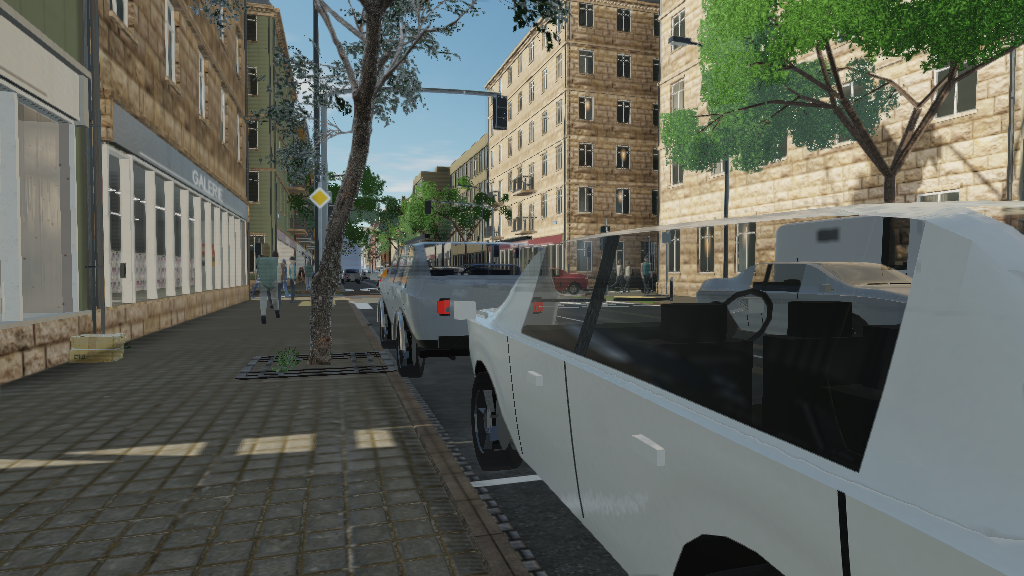
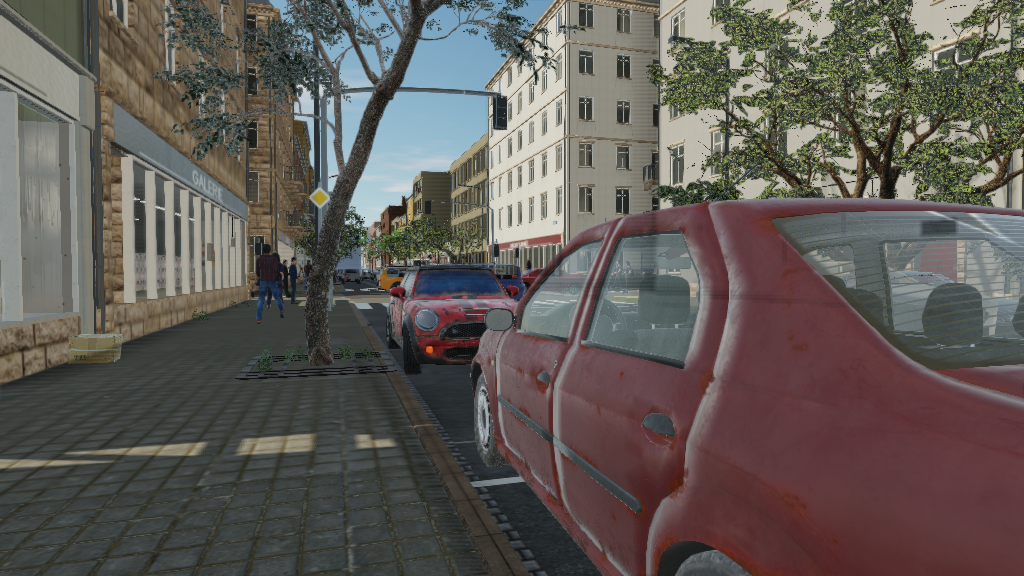
docs: the fourth pass -- before and after, report, performance, screenshots
docs/visual-overhaul-4/: the report, the eighteen viewpoints before and
after at 1024 x 576 with each pair side by side, eight flagship frames at
1920 x 1080, three night frames, and the performance runs. The README's
scene description, assets, tests, performance table, limitations and
layout follow the pass; plan.md records it and what comes next; the
committed screenshot set is re-shot from the same viewpoints.

diff --git a/README.md b/README.md
@@ -13,9 +13,12 @@ fascia is generated from one seed by code in this repository. The surfaces the
 camera gets closest to -- the asphalt, the paving, the bricks, the render, the
 bark -- are photogrammetry scans, and so are the hydrants, the cabinets, the
 benches, the cafe tables, the covered car and the trees nearest the showcase
-viewpoints: thirty-six models and fourteen texture sets, every one CC0 or
+viewpoints: sixty-nine models and fourteen texture sets, every one CC0 or
 CC-BY, every one with its licence and its digest recorded, every one fetched
-rather than committed and standing in for a generated fallback.
+rather than committed and standing in for a generated fallback. The cars in
+the bays the cameras look at are authored models under CC-BY, and the people
+on the footway are built from MakeHuman's CC0 base mesh and wardrobe in
+Blender and driven by this project's own skeleton and clips.
 
 It exists to exercise CNA's modern graphics layer (`CNAEXT`) on something that
 is not a test scene: a cascaded shadow pass, a depth/normal prepass, an
@@ -116,9 +119,31 @@ and the shrubs in them, the manhole covers, the cafe tables and A-boards out on
 the footway by the bakeries, the crates and cartons by the shop doors, the
 refuse sacks by the bins, and a car under a cover in one bay are
 photogrammetry scans from Poly Haven, imported through CNA's own glTF pipeline
-and instanced like everything else. The trees nearest the showcase viewpoints
-are a scanned small tree cut in Blender to a near and a far level of detail;
+and instanced like everything else. The trees within eighty metres of the
+junction are three scanned species -- a small tree, a broad island tree and a
+mature jacaranda -- each cut in Blender to a near and a far level of detail;
 the rest of the street's trees are the generated ones.
+
+**The hero cafe.** One shop -- the one the shop-window and pavement-cafe
+viewpoints look into -- is built as a composed room rather than a dressed
+box: a deeper plan with a darker store beyond a back door standing ajar, a
+serving counter under a glass case with the cakes and croissants inside it
+and the till on top, bread shelving and baskets behind, a coffee station
+against the end wall, pendant lamps over the counter, a clock and prints on
+the walls, a dressed window and two cafe tables inside, the awning out,
+opening hours on the door and a lamp on the pilaster. Thirty-eight scanned
+props, each anchored by the interior generator where a person would have put
+it.
+
+**The facades, closer.** Every sill, lintel, string course, cornice,
+pilaster, balcony nosing and door threshold is a chamfered box rather than a
+sharp one, because an arris that catches a highlight is most of what
+separates built stone from an extrusion. The flat post-war elevations carry a
+projecting surround round each window, the balconies stand on brackets, every
+shop door is set a third of a metre back into a reveal with a stone threshold
+and a pull handle, and the walls carry what walls carry: meter cabinets,
+vents, conduit runs with their saddles, scanned security cameras over the
+shop doors and scanned condenser units beside the upper windows.
 
 **Beyond the frontage.** The two streets continue past the modelled plots
 with their kerbs, footways and carriageways, lined by blocks that carry real
@@ -126,6 +151,16 @@ window recesses, shopfronts under fascias, plinths and cornices, with the same
 trees on the same pitch and the same cars parked along them, and cross streets
 between every third block. The scatter of blocks on the skyline beyond is
 painted: it is 240 m away.
+
+**The parked cars.** Eight authored car models -- an Opel Astra GTC, a Fiat
+Punto GT, a Renault Logan, a VAZ-2104 estate, a Honda Civic, a Mini Cooper S,
+a 1980s saloon and a Mercedes Sprinter -- all CC-BY from Sketchfab authors
+publishing their own work, normalised in Blender by
+`scripts/blender-vehicles.py` and dealt into the parking bays of the main
+street within seventy metres of the junction by `CityScene::buildHeroVehicles`,
+never the same model in two neighbouring bays. They are static, so the
+reflection probes hold them and the shop windows reflect them. The loft each
+one replaces stays in the simulation and is not drawn.
 
 **The moving parts.** Twelve vehicles over six classes — city car, hatchback,
 saloon, estate, crossover, van — lofted from monotone-cubic profile curves
@@ -136,10 +171,15 @@ clusters with chromed reflectors, number plates, a roof aerial and an interior
 with seats and a steering wheel. Bicycles lean on the stands. They follow the vehicle ahead, brake for a red light with
 their brake lamps lit, and turn through the junction on a Bézier.
 
-Fifty-odd people, each one mesh on a nineteen-bone skeleton, skinned by
-distance to the limbs running out of each bone, and animated on the GPU by
-`SkinnedPbrEffect` from walk and idle clips built in code, in coats with
-collars, some with a bag, some in a cap. The animation clock
+Fifty-odd people over eight variants, each one mesh per material on a
+nineteen-bone skeleton and animated on the GPU by `SkinnedPbrEffect` from walk
+and idle clips built in code. The eight are built from MakeHuman's CC0 base
+mesh and system wardrobe -- skins, clothes, shoes, hair, eyes -- by
+`scripts/blender-people.py` with MPFB in Blender, posed with the arms down,
+their authored weights folded from MakeHuman's 137 bones onto this project's
+nineteen, and written in this project's own character format for
+`CharacterLibrary` to read; the generated figures of the earlier passes stand
+in for any variant that has not been generated. The animation clock
 is the distance walked rather than wall-clock time, so nobody's feet slide and
 nobody's queue breathes in unison.
 
@@ -168,10 +208,11 @@ has, two of them on the stretch of footway where the scanned content is
 densest.
 
 `docs/visual-overhaul/` holds the first overhaul's before-and-after set,
-`docs/visual-overhaul-2/` the second pass's, and `docs/visual-overhaul-3/` the
-third's: scanned surfaces, scanned props, the hero trees and the recalibrated
-light, each viewpoint before beside after, the night set, flagship frames at
-1920 × 1080, and what it cost.
+`docs/visual-overhaul-2/` the second pass's, `docs/visual-overhaul-3/` the
+third's, and `docs/visual-overhaul-4/` the fourth's: authored cars, authored
+people, three tree species, architectural depth and the hero cafe, each
+viewpoint before beside after, the night set, flagship frames at 1920 × 1080,
+and what it cost.
 
 ## Building
 
@@ -603,19 +644,31 @@ on a machine with no GPU.
 
 ## Assets
 
-The street is generated. Thirty-six models and fourteen surfaces are not, and
-`assets/ATTRIBUTION.md` says exactly which and under what terms.
+The street is generated. Sixty-nine models, fourteen surfaces and eight
+people are not, and `assets/ATTRIBUTION.md` says exactly which and under what
+terms.
 
-Two sources. Sixteen glTF models from the Khronos sample set stand behind the
-shop glass. Twenty photogrammetry scans from [Poly Haven](https://polyhaven.com)
-stand in the street -- hydrants, cabinets, a bench, cafe furniture, planters
-and shrubs, crates, cartons, refuse sacks, manhole covers, a covered car and a
-small tree -- and fourteen Poly Haven texture sets replace the generated
-asphalt, paving, kerb, bricks, render, ashlar, concrete, roof tiles, bark and
-shop floor. Every Poly Haven item is CC0-1.0; the Khronos models are CC0-1.0
-or CC-BY-4.0, per model, as that repository's own `Models.md` states them.
+Four sources. Sixteen glTF models from the Khronos sample set stand behind the
+shop glass. Forty-four photogrammetry scans from
+[Poly Haven](https://polyhaven.com) stand in the street and in the hero cafe
+-- hydrants, cabinets, a bench, cafe furniture, planters and shrubs, crates,
+cartons, refuse sacks, manhole covers, a covered car, three trees, the cafe's
+shelving, counter fittings, lamps and food, and the cameras and condenser
+units on the walls -- and fourteen Poly Haven texture sets replace the
+generated asphalt, paving, kerb, bricks, render, ashlar, concrete, roof
+tiles, bark and shop floor. Eight cars come from [Sketchfab](https://sketchfab.com)
+authors, CC-BY-4.0 each, fetched from the
+[Objaverse](https://huggingface.co/datasets/allenai/objaverse) mirror with
+the licence and page Sketchfab embeds in the file, and normalised in Blender
+by `scripts/blender-vehicles.py`. The eight people are built from
+[MakeHuman](https://static.makehumancommunity.org)'s CC0 base mesh and system
+wardrobe by `scripts/blender-people.py`, which drives the MPFB extension in
+Blender -- a tool the manifest also declares, fetches and verifies, so the
+people can be rebuilt from nothing. Every Poly Haven and MakeHuman item is
+CC0-1.0; the Khronos models are CC0-1.0 or CC-BY-4.0 per model, and the CC-BY
+credits the licence asks for are in the attribution file.
 
-They are fetched rather than committed, because 300 MB of somebody else's work
+They are fetched rather than committed, because 700 MB of somebody else's work
 in a repository's history is a different decision from using it:
 
 ```sh
@@ -640,15 +693,23 @@ tables from it. None of it is used on the strength of the repository it came
 from -- the Khronos set carries models under other terms, and the manifest
 names the ones that were rejected and why. "It downloaded" is not a licence.
 
-The hero tree is the one asset with a build step of its own.
-`scripts/blender-tree-lod.py` runs inside Blender, takes Poly Haven's
-half-million-triangle LOD1, decimates the wood, keeps a fraction of the leaf
-clusters and scales the survivors up, and writes a near and a far `.glb` with
-the leaves alpha-masked (`scripts/glb-mask-leaves.py`, because Blender 4.2+
-exports every alpha as BLEND). The two files are declared as derived files of
-the tree in the manifest and compiled by the content build like any other
-model. Without Blender the derived files are not made and the generated trees
-stand at every pit.
+Three kinds of asset have a build step of their own, all in Blender and all
+recorded as derived files in the manifest so the licence gate knows them.
+`scripts/blender-tree-lod.py` takes a Poly Haven tree -- a `.blend` or, since
+this pass, a glTF -- decimates the wood, keeps a fraction of the leaf clusters
+and scales the survivors up, and writes a near and a far `.glb` with the
+leaves alpha-masked (`scripts/glb-mask-leaves.py`, because Blender 4.2+
+exports every alpha as BLEND) and no colour attribute (GLTF-209).
+`scripts/blender-vehicles.py` normalises a downloaded car: backdrop dropped,
+faced +Z at the real car's length, one mesh per material, a far level of
+detail, textures capped at 1k, glass blended and everything else opaque, and
+the triangles reversed for CNA's cull (CNA-F15). `scripts/blender-people.py`
+builds a person with MPFB, poses the arms down, bakes the targets, applies the
+masks and the armature, folds the rig's weights onto this project's nineteen
+bones and writes the mesh in this project's character format beside its
+textures, which the content build compiles with a mip chain like the
+catalogue's own. Without Blender none of the derived files are made, and the
+generated trees, the lofted cars and the generated figures stand in.
 
 ## Tests
 
@@ -656,7 +717,7 @@ stand at every pit.
 ctest --test-dir build --output-on-failure
 ```
 
-Eleven suites over the parts of the street that can be checked without a device:
+Twelve suites over the parts of the street that can be checked without a device:
 the signal controller, the traffic model, the walk graph, mesh building, the
 layout, the settings parser, the camera frustum, the mip-chain generation the
 content pipeline depends on, the shapes and surfaces the first visual overhaul
@@ -674,8 +735,17 @@ Three of them found live bugs on their first run: `realism_tests` asked where
 a car's brake lenses were and found the tail lamps wrapping 26 cm out behind
 the bumper.
 
-The eleventh is `validate_assets`: the licence gate, run by CTest, so a
-manifest that drifts from the fetched files fails the suite. `realism_tests`
+One is `validate_assets`: the licence gate, run by CTest, so a
+manifest that drifts from the fetched files fails the suite; it now knows the
+manifest's tools list and derived folders. The newest is
+`character_format_tests`, the contract between `scripts/blender-people.py`
+and `CharacterLibrary`: nineteen bones in an order a parent always precedes
+its child, joints where a standing figure's are with the arms down, every
+part inside its binary, every vertex a unit normal, a unit tangent, weights
+summing to one, bone indices under nineteen and UVs inside the texture. The
+first export failed the last check on every garment -- a stale layer
+reference in Blender had read another array as the UVs -- and drew perfectly
+plausible garbage. `realism_tests`
 gained a case for the manhole covers the road builder now hands to the scene,
 which have to lie on the crown of the main carriageway and out of the junction
 box. It pins the things the second pass's screenshots showed to be
@@ -734,18 +804,18 @@ them again. The overlay's headline is an *exponential* average and its
 breakdown is one frame's stage times: right for flying a camera around, wrong
 for tuning — it once read 214 ms on a frame that took 778.
 
-| | Before the second pass (`27f92a8`) | Before the third (`83dc8e1`) | Now |
-| --- | --- | --- | --- |
-| Scene build | 7 s from compiled content | 7 s, then 6–8 s baking 29 reflection probes | 12 s, then 7 s of probes |
-| Static batches | 1 187 | 1 586 | 1 634 |
-| Textures | 198 catalogue surfaces plus per-shop signage and the imported models' own | the same, plus a poster atlas and a weathering-decal atlas | the same, fourteen of them scans at 1024 px, plus twenty scanned models' own |
-| Plots, vehicles, people | 42, 74, 78 | 42, 74, 78 | 42, 74 + one covered car, 78 |
-| Draw calls per frame | 1 361, of which 160 are skinned | 1 535 | 1 564 |
-| Shadow draw calls | 2 840 | 3 115 | 3 303 |
-| Triangles drawn | 560 k | 603 k | 1 695 k, of which the hero trees are most |
-| Frame, 1024×576 | 34–45 ms median | 41–51 ms median | 47–59 ms median, interleaved with 52–64 for `83dc8e1` on a busy machine |
-| Frame, 1920×1080 | 46 ms | 47 ms | 64 ms against 60 |
-| Frame, `--night` | 34 ms | 47 ms | unchanged by this pass |
+| | Before the second pass (`27f92a8`) | Before the third (`83dc8e1`) | Before the fourth (`c31ae23`) | Now |
+| --- | --- | --- | --- | --- |
+| Scene build | 7 s from compiled content | 7 s, then 6–8 s baking 29 reflection probes | 12 s, then 7 s of probes | 17 s, then 8 s of probes |
+| Static batches | 1 187 | 1 586 | 1 634 | 1 655 |
+| Textures | 198 catalogue surfaces plus per-shop signage and the imported models' own | the same, plus a poster atlas and a weathering-decal atlas | the same, fourteen of them scans at 1024 px, plus twenty scanned models' own | the same, plus forty-four scanned models', eight cars' at 1k and eight people's with mip chains |
+| Plots, vehicles, people | 42, 74, 78 | 42, 74, 78 | 42, 74 + one covered car, 78 | 42, 74 of which 8 are authored, 78 over 8 authored people |
+| Draw calls per frame | 1 361, of which 160 are skinned | 1 535 | 1 564 | 1 700 |
+| Shadow draw calls | 2 840 | 3 115 | 3 303 | 3 563 |
+| Triangles drawn | 560 k | 603 k | 1 695 k, of which the hero trees are most | 5 150 k, of which the trees are most |
+| Frame, 1024×576 | 34–45 ms median | 41–51 ms median | 47–59 ms median, interleaved with 52–64 for `83dc8e1` on a busy machine | 59–62 ms median against 47 for `c31ae23` |
+| Frame, 1920×1080 | 46 ms | 47 ms | 64 ms against 60 | 76 ms |
+| Frame, `--night` | 34 ms | 47 ms | unchanged by this pass | 56 ms |
 
 Those are from a 16-core machine that was busy with other work while it
 measured, hence the ranges; the first overhaul's table, from four cores, is in
@@ -775,6 +845,17 @@ rebuilt as rooms, the vehicle lamps rebuilt, causal weathering, and the night
 sky. The reflection probes themselves cost nothing measurable per frame; the
 cost is four hundred more static batches, almost all of them the far blocks.
 `docs/visual-overhaul-2/performance.md` has every raw run.
+
+Against `c31ae23`, the commit before the fourth pass, measured at the start
+of the session from the same build directory: **about +30%** at 1024 × 576
+(three runs at 59.9, 63.6 and 61.5 ms against 46.5) and +19% at 1080p, for
+eight authored cars, eight authored people, nineteen scanned trees over three
+species, chamfers and fittings on every facade and a composed hero cafe. The
+draw calls moved by nine per cent; the triangles tripled, and at five million
+a frame this rasteriser does charge for them -- eight of the extra
+milliseconds are the opaque pass and four the shadow pass.
+`docs/visual-overhaul-4/performance.md` has the runs and where the triangles
+went.
 
 Against `83dc8e1`, the commit before the third pass, three interleaved pairs
 at 1024 × 576 came out 52.0 / 63.8 / 55.4 ms before against 47.2 / 52.1 /
@@ -810,20 +891,25 @@ materials, and alpha masking instead of blending everywhere except glass.
 * **No audio.** CNA's audio module is there and works; the demo has nothing to
   play through it, and a synthesised city ambience would be a worse thing than
   silence.
-* **The vehicles are lofts, not scans.** The one scanned vehicle is the car
-  under a cover; every other car is generated, and from three metres the
-  generated ones still read as generated. No realistic car was found under a
-  licence this repository can carry; a better loft is the next procedural
-  step, a licensed hero car the step after.
-* **The people are mannequins at four metres**, and the photographs keep them
-  out of the foreground for that reason. A face and a garment are texture
-  work, and a rigged figure under a clean licence would be better still.
-* **The hero tree needs Blender.** Its two levels of detail are cut from Poly
-  Haven's `.blend` by a script; without Blender the generated trees stand at
-  every pit, which is the fallback and not a failure.
-* **Scanned props carry one mip level** (GLTF-206), which is why they are
-  fetched at 1k rather than 2k or 4k: a hydrant's texture would otherwise
-  shimmer from a few metres.
+* **The moving traffic is still lofts.** The eight authored cars are parked;
+  a car driving past the camera is the generated one, because a moving car
+  needs wheels that turn and the authored models do not separate theirs.
+* **The people's faces are painted.** MakeHuman's skins hold at four metres,
+  which is where a street is seen from, and at two metres a painted face is a
+  painted face.
+* **The hero trees, cars and people need Blender.** Their derived files are
+  cut, normalised and generated by scripts that run inside Blender 4.3 with
+  numpy on its Python path (`--python-use-system-env`), and the people need
+  the MPFB extension the manifest fetches; without Blender the generated
+  trees, the lofted cars and the generated figures stand in, which is the
+  fallback and not a failure.
+* **Scanned props and the cars carry one mip level** (GLTF-206), which is
+  why they are fetched or capped at 1k rather than 2k or 4k: a texture would
+  otherwise shimmer from a few metres. The people's textures do not, because
+  they go through the catalogue's compiler.
+* **An imported single-sided part draws inside out** under CNA's default cull
+  (CNA-F15). The derived cars and people carry reversed winding for it, and
+  any other single-sided import will need the same.
 * **The far skyline is blocks with printed façades.** The blocks that line the
   two streets past the modelled frontage now carry real window recesses,
   shopfronts and cornices; the scatter of taller blocks beyond them, 240 m out,
@@ -864,7 +950,12 @@ scripts/fetch-assets.sh     fetches and verifies every declared external file
 scripts/validate-assets.py  the licence gate, also a CTest test
 scripts/manifest-tool.py    reads the manifest for the build and the fetch
 scripts/prepare-surfaces.py turns scanned PBR sets into catalogue surfaces
-scripts/blender-tree-lod.py cuts the hero tree's levels of detail, in Blender
+scripts/blender-tree-lod.py cuts a tree's levels of detail, in Blender
+scripts/blender-vehicles.py normalises a downloaded car into two levels of detail, in Blender
+scripts/blender-people.py   builds the people from MakeHuman with MPFB, in Blender
+scripts/blender-vehicle-preview.py
+                            renders a model's orientation views, for checking a download
+scripts/polyhaven-fetch.py  fetches a Poly Haven model and prints its manifest entry
 scripts/glb-mask-leaves.py  makes an exported tree's leaves alpha-masked
 scripts/attribution-table.py
                             generates the tables in assets/ATTRIBUTION.md
@@ -881,6 +972,7 @@ docs/screenshots/           the named viewpoints
 docs/visual-overhaul/       the first visual overhaul: audit, comparisons, report
 docs/visual-overhaul-2/     the second pass: before and after, night, report
 docs/visual-overhaul-3/     the third pass: scans, props, trees, light
+docs/visual-overhaul-4/     the fourth pass: authored cars, people, trees, depth, the hero cafe
 plan.md                     what is done, what is next
 ```
 
